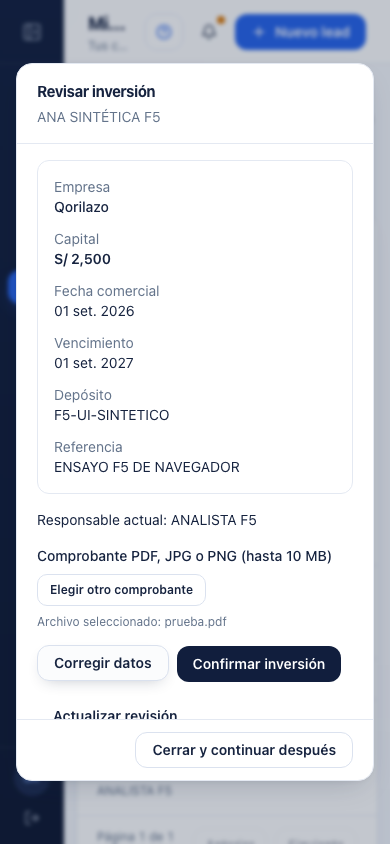
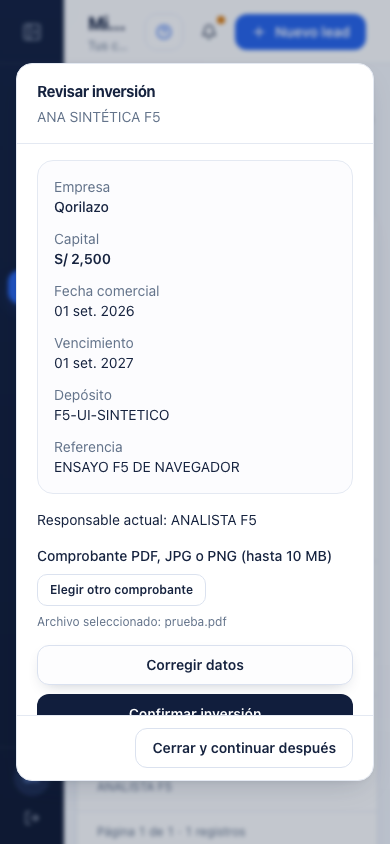
CRM F5: documenta el acabado visual y renueva las capturas verificadas

diff --git a/BASE DE CONOCIMINETO/AVANCECORP/Plan por fases - cliente multiempresa e inversiones del grupo (2026-09-01).md b/BASE DE CONOCIMINETO/AVANCECORP/Plan por fases - cliente multiempresa e inversiones del grupo (2026-09-01).md
@@ -25,8 +25,9 @@ avance: por-evidencia-con-ciclo-mensual-obligatorio-en-G8
 **F5 implementada y probada con datos sintéticos, sin publicar ni encender.**
 Cartera, ficha neutral y nueva inversión integradas con F4. Main y su remoto
 conservan los commits; el paquete incluye SQL exacto, tipos, frontend, función
-documental, evidencia y reversa. Acta vigente:
-[[RETOMAR-67 - F5 implementada y candidata preparada (2026-09-08)]].
+documental, evidencia y reversa. Miguel valoró favorablemente las pantallas y
+se completó su adaptación visual a los componentes del CRM. Acta vigente:
+[[RETOMAR-68 - F5 adaptacion visual verificada (2026-09-08)]].
 
  Miguel confirmó que
 las comisiones se calculan fuera del sistema y no quiere ese módulo. Se excluyen
@@ -41,7 +42,7 @@ conservan. Decisión: [[F4 cerrada - comisiones fuera del sistema (2026-09-08)]]
 | F2 — vinculación histórica inicial | Publicada | Conservar lo resuelto; recenso antes de tratar faltantes reales |
 | F3 — reconocimiento único | Publicada y encendida | Identidad unificada activa desde el 07/09 a las 10:09 Lima |
 | **F4 — motor de inversiones** | **Publicada; G4 técnico cerrado** | Motor instalado; escritores apagados y fuentes conservadas |
-| F5 — cartera y Ficha 360 | Implementada y probada; candidata sin publicar | Evidencia sintética PASS; revisión personal de Miguel pendiente. [[RETOMAR-67 - F5 implementada y candidata preparada (2026-09-08)]] |
+| F5 — cartera y Ficha 360 | Implementada, probada y adaptada visualmente; candidata sin publicar | Propuesta visual bien recibida por Miguel; ajuste verificado. VoiceOver manual pendiente. [[RETOMAR-68 - F5 adaptacion visual verificada (2026-09-08)]] |
 | F6 — postventa | Pendiente | Vencimientos, próxima acción, renovación y reinversión |
 | F7 — métricas | Pendiente | Conciliar Capital, conversión, producción y atribución; firmar G6 |
 | F8 — piloto económico | Pendiente | Volúmenes, recorridos, conciliaciones y firmas de G7 |
@@ -423,8 +424,9 @@ Plan ejecutable: [[Plan de implementacion F5 - cartera y ficha multiempresa (202
 **Implementación del 08/09:** cartera única, ficha y nueva inversión completadas.
 38 pruebas de banco y el gate completo del CRM aprobados; capturas de escritorio,
 móvil y roles, PDF PEN/USD conservado, SQL/reversa ensayados y tipos cotejados.
-La aceptación personal de Miguel y el lector de pantalla manual no se presentan
-como ejecutados. Producción conserva F4/F5 apagadas. Evidencia:
+Miguel valoró favorablemente las capturas y se verificó el ajuste de coherencia
+visual con el CRM. La sesión manual de lector de pantalla sigue pendiente.
+Las escrituras F4 y la ficha F5 permanecen apagadas en producción. Evidencia:
 [aceptación F5](../../CRM-Avance-Corp/supabase/scripts/f5/ACEPTACION.md).
 
 **Avance:** al completar la evidencia de esta fase.
@@ -626,7 +628,7 @@ Numeración alineada con el maestro; los gates no son una renumeración de las f
 | G2 | Vinculación F2 clasificada y conciliada, sin fusiones ambiguas |
 | G3 | Puertas F3 sin rutas paralelas que eviten los controles canónicos |
 | G4 | Escritores F4 completos con datos sintéticos; concurrencia, idempotencia, permisos, documentos, recuperación, paridad financiera y reversa; **cerrado técnicamente el 08/09**, comisiones externas fuera del alcance; no autoriza dinero real |
-| G5 | Matriz técnica F5 con datos sintéticos PASS; evidencia visual preparada y aceptación personal de Miguel pendiente |
+| G5 | Matriz técnica F5 con datos sintéticos PASS; propuesta visual bien recibida por Miguel y ajuste al CRM verificado; sesión manual de VoiceOver pendiente |
 | G6 | Métricas F7 conciliadas y firmadas; habilita solicitar el piloto económico |
 | G7 | Piloto F8 aceptado por volumen, conciliación, pruebas y firmas |
 | G8 | Despliegue progresivo y ciclo operativo mensual completos; retirada final de rutas antiguas |

diff --git a/CRM-Avance-Corp/supabase/scripts/f5/ACABADO-VISUAL.md b/CRM-Avance-Corp/supabase/scripts/f5/ACABADO-VISUAL.md
@@ -1,0 +1,62 @@
+# F5 — coherencia visual con el CRM
+
+08/09/2026. Miguel valoró favorablemente las capturas de F5 y pidió mantener la
+similitud con los recursos y componentes del CRM. Se conserva la organización
+presentada: cartera → ficha por persona → revisión de nueva inversión.
+
+## Criterio y cambios
+
+- Se usan la tipografía y los tokens existentes: Plus Jakarta Sans, navy
+  `#111e3d`, azul `#2563eb`, lienzo `#f6f8fc`, tarjeta blanca y borde `#e4e9f2`.
+  Se mantienen los tamaños de texto y la alineación a la izquierda del CRM.
+- La cartera conserva el ancho máximo de 1.240 px usado por Mi cartera.
+  Los filtros y el resumen por empresa/moneda se acomodan al ancho disponible
+  del panel. En una ficha estrecha no se fuerzan tres columnas de escritorio.
+- El estado sin resultados reutiliza `PanelVacio`. La paginación compartida
+  usa `Button`, conserva sus condiciones y callbacks, y permite que contador
+  y controles ocupen líneas distintas en móvil. Los botones tienen foco visible
+  y una altura mínima de 40 px en pantallas estrechas.
+- El formulario mantiene los componentes de campos, diálogo y contrato del CRM.
+  Se uniforman los espacios de etiquetas y campos, el resumen de revisión y el
+  tono de error. Los botones largos y nombres de archivo pueden ocupar varias
+  líneas; las acciones de revisión se apilan en móvil.
+
+El ajuste afecta presentación y composición de cuatro archivos de frontend.
+No cambia payloads, importes, permisos, consultas, solicitudes, confirmaciones,
+contratos, documentos ni comisiones. Riesgo LEVEL 1; cero consultas adicionales
+al reviewer. La revisión original de F5 continúa documentada en [REVISION.md](REVISION.md).
+
+## Verificación
+
+Código del ajuste: `37ba1fa`. La documentación y las capturas se guardan después;
+el manifiesto del nuevo paquete identifica el commit final sincronizado.
+
+- `npm run check:all`: PASS. Lint, tipos, 3.127 tests en 221 archivos,
+  cobertura, configuración de release, build, bundle y duplicación;
+  147 Playwright PASS y 26 omisiones preexistentes.
+- Los siete recorridos F5 pasan dentro del gate completo. Antes del gate
+  también pasaron su suite específica y los 11 tests de interfaz F5.
+- Recorrido visual adicional con datos ficticios: 13 capturas inspeccionadas
+  en anchos de 320, 390, 768 y 1.440 px. Incluye lista, ficha, archivo largo,
+  error al confirmar, recuperación de corrección, lista vacía y error de lectura.
+  No se observó desborde horizontal del documento, los diálogos ni sus botones.
+- La revisión visual no reemplaza el gate de datos del destino. F5 permanece
+  candidata sin publicación; sus fixtures no se presentan como datos reales.
+- `git diff --check`: PASS. Los cambios y los resultados quedan guardados
+  junto con el paquete construido desde el commit sincronizado del manifiesto.
+- **NOT RUN:** sesión manual de VoiceOver y gates de publicación en producción.
+  No se atribuye una prueba con lector de pantalla a la inspección de capturas
+  ni a la comprobación automática de nombres accesibles, teclado y foco.
+
+## Capturas
+
+- [Cartera en escritorio](evidencias/f5-acabado-cartera-1440.png).
+- [Cartera en móvil y paginación](evidencias/f5-acabado-cartera-390.png).
+- [Estado sin resultados](evidencias/f5-acabado-cartera-320-vacia.png).
+- [Recuperación en móvil](evidencias/f5-acabado-recuperacion-320.png).
+
+Las siete capturas originales de `evidencias/f5-*.png` se actualizaron desde
+la última ejecución del gate. Las capturas previas, el recorrido adicional y
+sus logs se conservan en el respaldo privado de este ajuste.
+
+La publicación y el encendido siguen las condiciones de [README.md](README.md).

diff --git a/BASE DE CONOCIMINETO/AVANCECORP/RETOMAR-68 - F5 adaptacion visual verificada (2026-09-08).md b/BASE DE CONOCIMINETO/AVANCECORP/RETOMAR-68 - F5 adaptacion visual verificada (2026-09-08).md
@@ -1,0 +1,54 @@
+---
+tags: [crm, cartera, F5, retomar, revision-visual]
+fecha: 2026-09-08
+estado: candidata-con-ajuste-visual-sin-publicacion
+---
+
+# CARTERA — F5 adaptada al estilo del CRM
+
+Miguel pidió continuar F5 después de indicar que le gustaban las capturas y
+confirmar su expectativa de coherencia visual con el CRM. Se retomó la fase
+implementada; se conserva la estructura presentada de cartera, ficha e inversión.
+
+## Ajuste completado
+
+- Ancho de cartera y componentes de estado vacío compartidos con el CRM.
+- Paginación con los botones comunes, foco visible y controles que se acomodan
+  al ancho móvil.
+- Filtros y resumen por empresa/moneda adaptados al ancho real del panel.
+- Espacios del formulario, tono de errores y botones largos uniformados;
+  nombres largos de comprobantes legibles sin desborde.
+
+Se conservan las operaciones, permisos, capital, monedas, fuentes y documentos
+ya probados. Las comisiones continúan calculándose fuera del sistema.
+
+## Evidencia y guardado
+
+`npm run check:all`: PASS, con 3.127 pruebas unitarias en 221 archivos y
+147 recorridos de navegador; 26 omisiones preexistentes. Se revisaron además
+13 capturas a 320, 390, 768 y 1.440 px, incluyendo recuperación, lista vacía y
+errores. Este recorrido complementa los siete casos F5 del gate completo.
+
+Acta y capturas actualizadas:
+`CRM-Avance-Corp/supabase/scripts/f5/ACABADO-VISUAL.md`.
+Código del ajuste guardado en `37ba1fa`; actas y capturas en un commit posterior.
+Los commits y el manifiesto del paquete identifican la versión candidata
+vigente. El respaldo privado de este ajuste se guarda junto a los anteriores
+en `RESPALDOS-CARTERA/`; no reemplaza ni elimina el cierre anterior.
+
+Se mantienen intactos los 229 archivos pendientes de otras tareas en la
+carpeta principal. El trabajo de F5 utiliza su carpeta aislada existente,
+`/private/tmp/avancecorp-f5-desarrollo`.
+
+## Estado para continuar
+
+F4 permanece publicada; F5 está desarrollada, probada y ajustada visualmente.
+No se instaló SQL F5, no se publicó la nueva interfaz ni se activaron nuevas
+operaciones en producción durante este ajuste. Quedan la sesión manual de
+VoiceOver y los gates del destino para publicar. La activación económica
+conserva F6, F7/G6, F8/G7 y F9/G8; no adelantar el piloto real.
+
+Relacionados: [[F5 - revision visual e integracion con el CRM (2026-09-08)]],
+[[RETOMAR-67 - F5 implementada y candidata preparada (2026-09-08)]],
+[[Plan de implementacion F5 - cartera y ficha multiempresa (2026-09-08)]],
+[[Plan por fases - cliente multiempresa e inversiones del grupo (2026-09-01)]].

diff --git a/CRM-Avance-Corp/supabase/scripts/f5/ACEPTACION.md b/CRM-Avance-Corp/supabase/scripts/f5/ACEPTACION.md
@@ -21,10 +21,17 @@ apagadas. No se usaron personas, depósitos ni cuentas reales como fixtures.
 | Supabase db lint local CRM/private | PASS sin errores; avisos preexistentes fuera de F5. El banco incorpora pg_cron sin jobs; no se activan tareas productivas |
 | Revisión Claude y evaluación del PRIMARY | Ejecutada; hallazgos corregidos o contrastados con el contrato/catálogo. [Evaluación](REVISION.md) |
 | Revisión visual | Capturas reales de navegador de escritorio, móvil 390 px, roles y revisión/confirmación; 8 páginas de PDF PEN y USD verificadas sin cambios a plantilla/fonts/assets |
-| Lector de pantalla manual y aceptación personal de Miguel | NOT RUN: se verificaron nombres accesibles, teclado, foco, diálogos y estados anunciados automáticamente; no se afirma una sesión manual de VoiceOver |
+| Revisión personal de Miguel | Propuesta visual bien recibida; solicitó conservar la coherencia con el CRM. Ajustes realizados y verificados en [ACABADO-VISUAL.md](ACABADO-VISUAL.md) |
+| Lector de pantalla manual | NOT RUN: se verificaron nombres accesibles, teclado, foco, diálogos y estados anunciados automáticamente; no se afirma una sesión manual de VoiceOver |
 | Advisors / gate de datos / carga en producción y despliegue F5 | NOT RUN: fase de desarrollo sintético, sin instalación ni encendido productivo. Ejecutar con el destino y artefacto aprobados |
 
 Las ocho suites de banco suman **38 pruebas** y se ejecutan secuencialmente.
+
+Tras la revisión visual de Miguel se ajustaron componentes, espacios y lectura
+en móvil. El gate completo volvió a pasar con 3.127 pruebas unitarias y 147 E2E;
+se inspeccionaron 13 capturas adicionales entre 320 y 1.440 px. Este ajuste no
+cambia el backend cuya evidencia se conserva arriba. Detalle y capturas:
+[ACABADO-VISUAL.md](ACABADO-VISUAL.md).
 
 El primer CI remoto (`257af26`, ejecución `34302179500`) aprobó calidad y los
 siete recorridos F5; fallaron ocho casos antiguos de Seguimiento exclusivamente

diff --git a/BASE DE CONOCIMINETO/AVANCECORP/Inicio.md b/BASE DE CONOCIMINETO/AVANCECORP/Inicio.md
@@ -7,8 +7,8 @@ actualizado: 2026-09-08
 
 Bóveda de conocimiento del **Portal Digital de Inversiones de Avance Corp S.A.C.** (dominio `miavance.com`). Es la **memoria de negocio y decisiones** del proyecto. Léela al inicio de cada sesión.
 
-Estado vigente: [[RETOMAR-67 - F5 implementada y candidata preparada (2026-09-08)]].
-Plan siguiente: [[Plan de implementacion F5 - cartera y ficha multiempresa (2026-09-08)]].
+Estado vigente: [[RETOMAR-68 - F5 adaptacion visual verificada (2026-09-08)]].
+Plan de trabajo F5: [[Plan de implementacion F5 - cartera y ficha multiempresa (2026-09-08)]].
 
 ## 🧠 Cómo funciona la memoria de este proyecto
 

diff --git a/BASE DE CONOCIMINETO/AVANCECORP/Plan de implementacion F5 - cartera y ficha multiempresa (2026-09-08).md b/BASE DE CONOCIMINETO/AVANCECORP/Plan de implementacion F5 - cartera y ficha multiempresa (2026-09-08).md
@@ -6,8 +6,8 @@ estado: implementada-candidata-sin-publicacion
 
 # F5 — cartera y ficha única del inversionista
 
-Actualización 08/09: implementación y evidencia sintética guardadas en
-[[RETOMAR-67 - F5 implementada y candidata preparada (2026-09-08)]].
+Actualización 08/09: implementación, adaptación visual al CRM y evidencia guardadas en
+[[RETOMAR-68 - F5 adaptacion visual verificada (2026-09-08)]].
 No se activó producción; se mantienen los límites y las puertas de este plan.
 
 Miguel pidió publicar F4 y recibir el plan de implementación de F5; después
